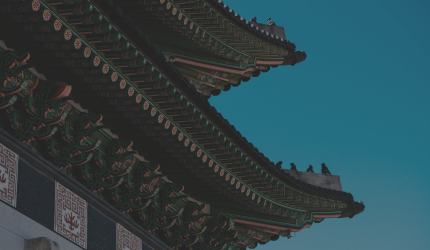
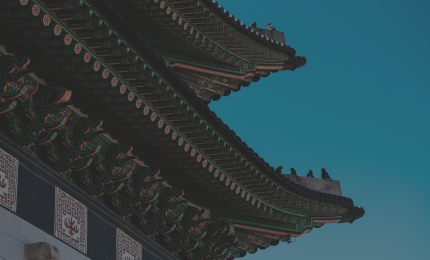
Feat:2024-08-28 12pm courseList 배경추가

diff --git a/src/pages/tourcourse/CourseDetail2.jsx b/src/pages/tourcourse/CourseDetail2.jsx
@@ -7,8 +7,9 @@ import { useLocation } from 'react-router-dom';
 import arrow from '../../assets/arrow.png';
 import spot_arrow from '../../assets/spot_arrow.png';
 import { options_POST } from 'services/CommonService';
-import bgImgUrl from 'assets/course-bg.png';
-import tagImgUrl from 'assets/icon_cos_schedule.gif';
+import RegionImgUrl from 'assets/icon_cos_schedule.gif';
+import tagImgUrl from 'assets/ico_schedule_tag.png';
+
 
 const CourseDetail = () => {
   const nav = useNavigate();
@@ -25,6 +26,7 @@ const CourseDetail = () => {
   const [longitude, setLongitude] = useState(null);
   const [completedItems, setCompletedItems] = useState(new Set());
   const [verificationImage, setVerificationImage] = useState('');
+  
 
   useEffect(() => {
     if(courseName === '') {
@@ -304,31 +306,41 @@ const CourseDetail = () => {
     }, 200);
   };
 
-  
+  // 마지막 아이템의 이미지 URL 가져오기
+  const lastItem = course[course.length - 1];
+  const bgImgUrl = lastItem ? lastItem.placeImg : '';
 
     return (
       <div className="course-detail">
         <div className='course-background' style={{width:'100%'}}>
-          <div className="detail-course-name">
-            <img src={bgImgUrl} alt="배경" style={{width:'100%'}} />
+          <div className="detail-course-name"
+              style={{
+              backgroundImage: `url(${bgImgUrl})`,
+              // backgroundSize: 'cover', // 배경 이미지를 요소 크기에 맞춤
+              // backgroundPosition: 'center', // 배경 이미지를 가운데 정렬
+              // width: '100%', // 전체 너비
+              // height: '260px',
+            }}
+          >
+            {/* <img src={bgImgUrl} alt="배경" style={{width:'100%'}} /> */}
             {/* 코스명 표시 */}
             <p className='course-name-title'>
               <span className='corse-number'>{course.length}코스</span>
-              <span>{courseName}</span>
+              <span className='course-title'>{courseName}</span>
             </p>
             <div className='course-tag-wrap'>
                 <div>
-                  <img src={tagImgUrl} alt="태그" style={{width:'40px', height:'40px', borderRadius:'50%'}} />
+                  <img src={RegionImgUrl} alt="태그" style={{width:'30px', height:'30px', borderRadius:'50%'}} />
                   <div className='course-tag-textwrap'  style={{textAlign:'left'}}>
                     <p>지역</p>
                     <p>제주</p>
                   </div>
                 </div>
                 <div>
-                  <img src={tagImgUrl} alt="태그" style={{width:'40px', height:'40px', borderRadius:'50%'}} />
+                  <img src={tagImgUrl} alt="태그" style={{width:'30px', height:'30px', borderRadius:'50%'}} />
                   <div className='course-tag-textwrap'  style={{textAlign:'left'}}>
                     <p>태그</p>
-                    <p>#추천코스 #추천코스 #추천코스</p>
+                    <p>#추천코스 #가볼만한곳 #관광지</p>
                   </div>
                 </div>
             </div>
@@ -358,7 +370,7 @@ const CourseDetail = () => {
             <div className="place-container">
             <img src={item.placeImg} alt={`${item.placeName} 이미지`} className="place-image" />
             <div className="place-details">
-              <h2 className="place-name">{item.placeName}</h2>
+              <h2 className="place-name">🚩 {item.placeName}</h2>
               <p className="place-address">{item.address}</p>
               <p className="place-content">{item.content}</p>
             </div>

diff --git a/src/assets/CourseDetail.css b/src/assets/CourseDetail.css
@@ -1,19 +1,18 @@
 .course-detail {
     height: 90vh; 
     overflow-y: auto; 
-    padding: 0 20px;
   }
   
   .course-items-container {
     width: 100%;
     position: relative;
-    padding: 240px 20px 70px;
+    padding: 200px 20px 70px;
   }
   
   .course-item {
     position: relative;
-    display: flex;
-    width: calc(33.33% - 40px);
+    /* display: flex;
+    width: calc(33.33% - 40px); */
     max-width: 200px;
     border-radius: 8px;
     text-align: center;
@@ -23,7 +22,7 @@
     padding-top: 10px;
     padding-left:4px;
     padding-right:4px;
-   
+    word-break: keep-all;
   }
   
   .course-item h2 {
@@ -131,6 +130,7 @@
   transform: translateX(-50%);
   width: 20px; /* 이미지 크기 조정 */
   height: 20px; /* 이미지 크기 조정 */
+  cursor: pointer;
 }
 
 .detail-course-name{
@@ -138,8 +138,22 @@
   word-break: keep-all;
   position: relative;
   width: 100%;
+  background-size: cover; /* 배경 이미지를 요소 크기에 맞춤 */
+  background-position: center; /* 배경 이미지를 가운데 정렬 */
+  width: 100%; /* 전체 너비 */
+  height: 260px; /* 고정 높이 설정 */
+  z-index: 1;
 }
-
+.detail-course-name::before {
+  content: "";
+  position: absolute;
+  top: 0;
+  left: 0;
+  width: 100%;
+  height: 100%;
+  background-color: rgba(0, 0, 0, 0.5); /* 검정색 반투명 배경 */
+  z-index: -1; /* 배경 이미지 위에 위치하지만 콘텐츠 아래에 위치하도록 */
+}
 #mainMap {
   width: 100%;
   height: 400px; /* 고정 높이 */
@@ -204,10 +218,10 @@
   filter: drop-shadow(0px 1px 2px #888);
 }
 
-.course-background{
+.course-background{  
   width: 100%;
   position: relative;
-  top: 120px;
+  top: 79px;  /* 배경 이미지 위치 */
 }
 
 .course-name-title{
@@ -231,7 +245,7 @@
   justify-content: center;
   width: 100%;
   position: absolute;
-  bottom: 15px;
+  bottom: 22px;
 }
 .course-tag-wrap > div{
   display: flex;
@@ -258,4 +272,22 @@
   padding: 0 15px;
   margin: 0;
   border-radius: 20px;
+}
+.place-containers{
+  padding: 0 20px;
+}
+.course-title{
+  animation: slideUp 1s ease-out forwards; /* 1초 동안 애니메이션 적용 */
+  opacity: 1; /* 초기 상태를 설정 */
+}
+/* 애니메이션 정의 */
+@keyframes slideUp {
+  from {
+      transform: translateY(30px); /* 화면 아래에서 시작 */
+      opacity: 0; /* 투명도 0으로 시작 */
+  }
+  to {
+      transform: translateY(0); /* 원래 위치로 이동 */
+      opacity: 1; /* 투명도 1로 끝 */
+  }
 }
